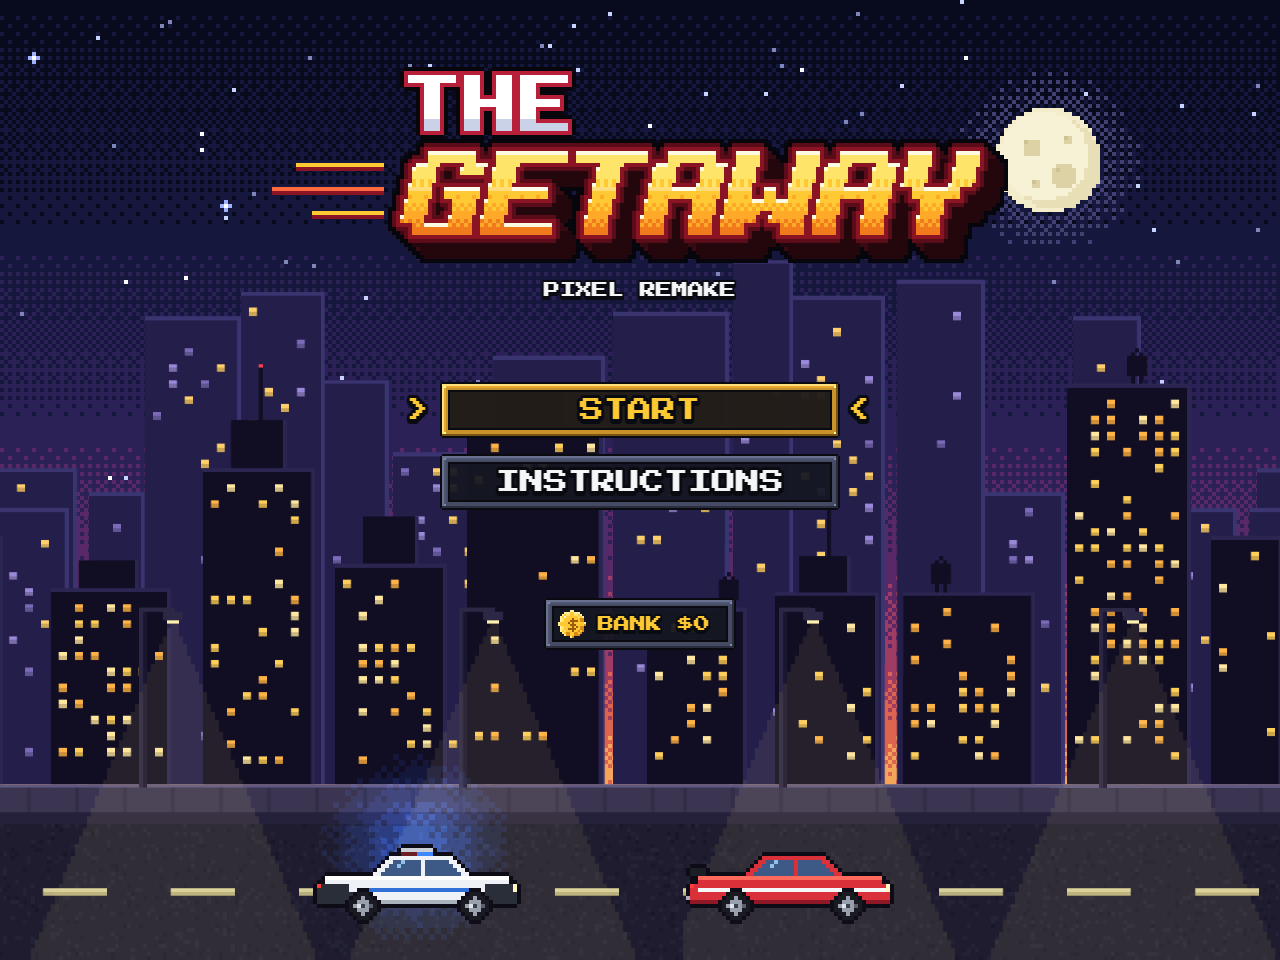
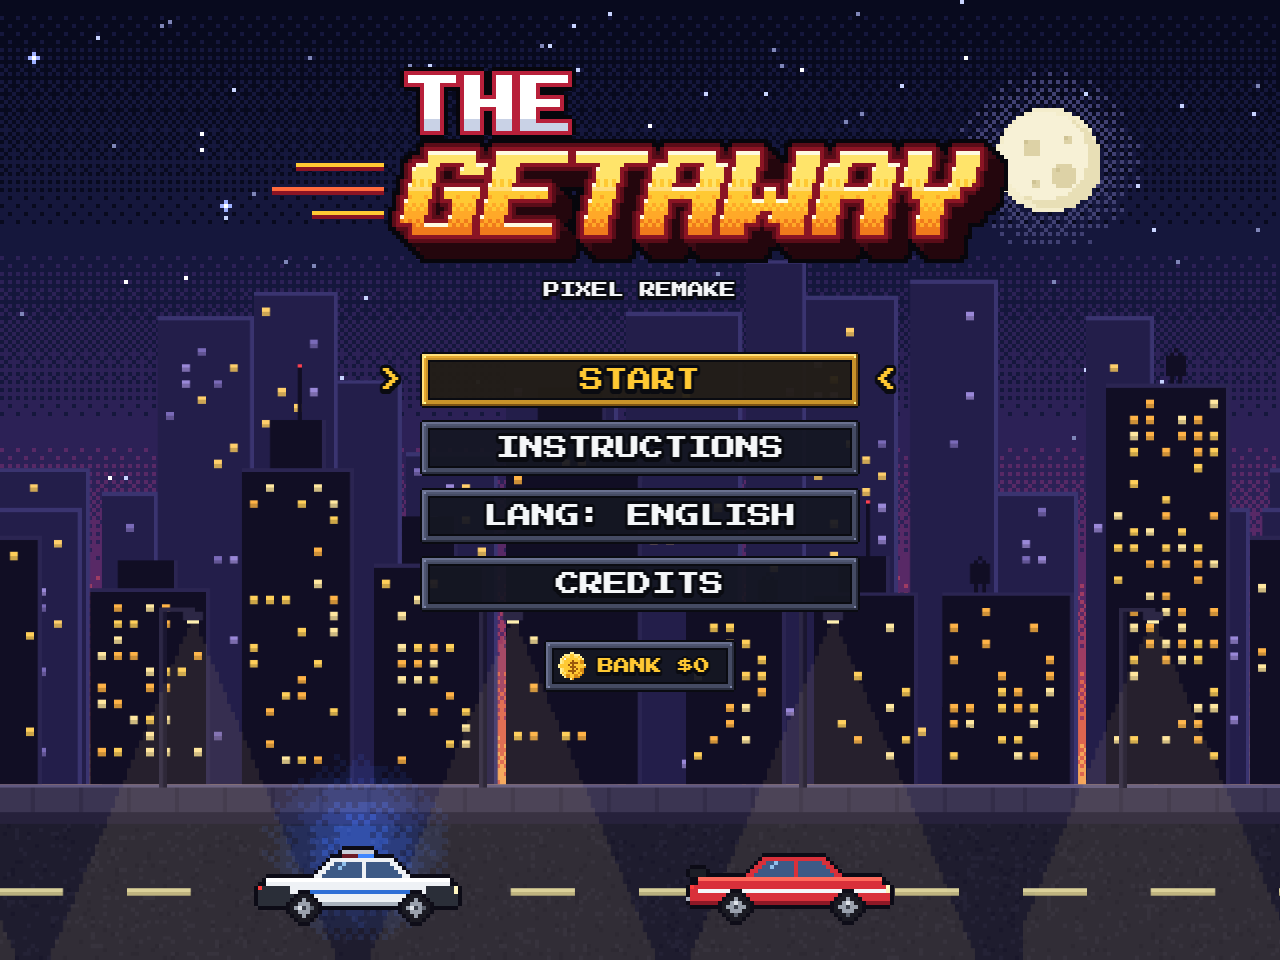
feat: credits page in the main menu, with a link to the GitHub repo (#22)
CREDITS joins the title menu and opens a page that names the author,
engine, languages and source code. VIEW ON GITHUB (or clicking the
address) opens the repository in a new tab.

Press Start 2P squeezes accented capitals into the plain capital's cell,
so they read as lower case. The page draws the bare letter and adds the
acute and caron as pixels above it, which lets the name keep its
diacritics.

Changed region(s): [[0.0, 0.2812, 1.0, 0.9688], [0.5938, 0.2812, 0.625, 0.3125]]

diff --git a/src/scenes/CreditsScene.js b/src/scenes/CreditsScene.js
@@ -1,0 +1,161 @@
+import Phaser from 'phaser';
+import { label, panel, dim, UI_COLORS, INK, createMenu, cityBackdrop } from '../ui/ui';
+import { bindPad } from '../gamepad';
+import { t } from '../i18n';
+
+const REPO_URL = 'https://github.com/Zednicek-Adam/Getaway';
+// Shown on screen in the font's capitals; GitHub paths are case-insensitive
+const REPO_LABEL = 'GITHUB.COM/ZEDNICEK-ADAM/GETAWAY';
+
+const NAME = 'ADAM ZEDNÍČEK';
+
+// Press Start 2P does have Í and Č, but squeezes them into the same 8px cell
+// as the plain capitals, so they read as lower case. accented() draws the
+// bare letter and adds the mark as pixels above it instead. Each mark is a
+// list of [col, row] font pixels; row 0 is the top of a capital, so negative
+// rows sit above it, leaving row -1 as a gap.
+const MARKS = {
+    '́': [[4, -3], [5, -3], [3, -2], [4, -2]], // acute
+    '̌': [[1, -3], [2, -3], [4, -3], [5, -3], [2, -2], [3, -2], [4, -2]], // caron
+};
+
+// Static credits page reached from the main menu. Headings come from i18n.js;
+// names and product names are the same in every language, so they live here.
+export class CreditsScene extends Phaser.Scene {
+    constructor() {
+        super({ key: 'CreditsScene' });
+    }
+
+    create() {
+        const { width } = this.scale;
+        const centre = width / 2;
+
+        cityBackdrop(this);
+        dim(this, 0.55);
+        panel(this, 40, 104, width - 80, 696);
+
+        label(this, centre, 56, t('credits.title'), { size: 40, color: UI_COLORS.gold }).setOrigin(0.5);
+
+        // --- Headliner -------------------------------------------------------
+        this.accented(centre, 136, t('credits.by'), { color: UI_COLORS.dim });
+        this.accented(centre, 186, NAME, { size: 32, color: UI_COLORS.gold });
+
+        // --- The roll --------------------------------------------------------
+        const blocks = this.column(centre, [
+            [t('credits.design'), [NAME]],
+            [t('credits.engine'), ['PHASER 3', 'PHASER.IO']],
+            [t('credits.languages'), ['ENGLISH, ESPAÑOL']],
+            [t('credits.thanks'), [t('credits.thanksWho')]],
+            [t('credits.source'), [REPO_LABEL]],
+        ]);
+        this.linkify(blocks[blocks.length - 1][0]);
+
+        // --- Small print -----------------------------------------------------
+        this.accented(centre, 738, t('credits.disclaimer'), { color: UI_COLORS.dim });
+        this.accented(centre, 770, `© 2026 ${NAME}`, { color: UI_COLORS.faint });
+
+        this.createButtons(centre, 846);
+    }
+
+    // Stacks [heading, lines] blocks down the page, centred on x. Returns each
+    // block's line labels so callers can dress individual lines.
+    column(x, blocks) {
+        let y = 246;
+        return blocks.map(([heading, lines]) => {
+            label(this, x, y, heading, { size: 24, color: UI_COLORS.red }).setOrigin(0.5);
+            const shown = lines.map((line, j) => this.accented(x, y + 36 + j * 24, line, { color: UI_COLORS.white }));
+            y += 36 + (lines.length - 1) * 24 + 58;
+            return shown;
+        });
+    }
+
+    // A label centred on (x, y) whose acute and caron letters are rebuilt
+    // from the bare letter plus a drawn mark (see MARKS). Every other
+    // character, Ñ included, is left to the font.
+    accented(x, y, text, opts) {
+        const size = opts.size || 16;
+        let plain = '';
+        const marks = [];
+        for (const ch of text) {
+            const [base, mark] = ch.normalize('NFD');
+            if (MARKS[mark]) marks.push([plain.length, MARKS[mark]]);
+            plain += MARKS[mark] ? base : ch;
+        }
+
+        const shown = label(this, x, y, plain, { ...opts, size }).setOrigin(0.5);
+        if (!marks.length) return shown;
+
+        // Where Phaser draws each glyph: inside the padding, half a stroke in,
+        // one em per character (the font is monospaced), baseline at the
+        // ascent. A capital is 7 font pixels tall and sits one pixel above the
+        // baseline, so its top is a full em above it.
+        const px = size / 8;
+        const stroke = shown.style.strokeThickness;
+        const left = shown.x - shown.displayWidth / 2 + shown.padding.left + stroke / 2;
+        const top = shown.y - shown.displayHeight / 2 + shown.padding.top + stroke / 2
+            + shown.getTextMetrics().ascent - size;
+
+        // Same three layers as the label: drop shadow, ink outline, fill
+        const ink = Phaser.Display.Color.HexStringToColor(INK).color;
+        const layers = [
+            [ink, stroke / 2, shown.style.shadowOffsetY],
+            [ink, stroke / 2, 0],
+            [Phaser.Display.Color.HexStringToColor(opts.color).color, 0, 0],
+        ];
+        const g = this.add.graphics();
+        for (const [colour, grow, drop] of layers) {
+            g.fillStyle(colour);
+            for (const [i, pixels] of marks) {
+                for (const [col, row] of pixels) {
+                    g.fillRect(left + i * size + col * px - grow, top + row * px - grow + drop,
+                        px + grow * 2, px + grow * 2);
+                }
+            }
+        }
+        // Under the letters, so a mark's shadow never paints over a capital
+        this.children.moveBelow(g, shown);
+        return shown;
+    }
+
+    // Turns a label into a clickable link to the repo
+    linkify(text) {
+        text.setColor(UI_COLORS.cyan).setInteractive({ useHandCursor: true });
+        text.on('pointerover', () => text.setColor(UI_COLORS.goldLight));
+        text.on('pointerout', () => text.setColor(UI_COLORS.cyan));
+        text.on('pointerdown', openRepo);
+    }
+
+    createButtons(x, y) {
+        // Mirrors InstructionsScene: a held ENTER/SPACE repeats, and the
+        // repeat can land on this scene the instant it opens. Date.now(), not
+        // this.time.now — see the note in MenuScene.
+        const armedAt = Date.now();
+        const armed = () => Date.now() - armedAt >= 250;
+        const goBack = () => {
+            if (armed()) this.scene.start('MenuScene');
+        };
+
+        const menu = createMenu(this, {
+            x, y, width: 440, height: 52, spacing: 64,
+            items: [
+                { label: t('credits.github'), action: openRepo },
+                { label: t('help.back'), action: goBack },
+            ],
+        });
+
+        const activate = () => {
+            if (armed()) menu.activate();
+        };
+        this.input.keyboard.on('keydown-ESC', goBack);
+        this.input.keyboard.on('keydown-ENTER', activate);
+        this.input.keyboard.on('keydown-SPACE', activate);
+        bindPad(this, { a: activate, b: goBack, start: activate });
+    }
+}
+
+// A new tab, so the game stays open on the credits page. Browsers
+// only allow this from a click or key press; a gamepad press does not count as
+// one, so from a pad the tab may be blocked. The address is on screen anyway.
+function openRepo() {
+    window.open(REPO_URL, '_blank', 'noopener');
+}

diff --git a/src/i18n.js b/src/i18n.js
@@ -25,6 +25,7 @@ export const STRINGS = {
         'menu.subtitle': 'PIXEL REMAKE',
         'menu.start': 'START',
         'menu.instructions': 'INSTRUCTIONS',
+        'menu.credits': 'CREDITS',
         'menu.language': 'LANG: {name}',
         'menu.bank': 'BANK {amount}',
 
@@ -105,6 +106,17 @@ export const STRINGS = {
         'help.heat': 'HEAT',
         'help.heat1': 'EVERY PICKUP RAISES YOUR WANTED STARS',
         'help.heat2': '1-3 PATROLS   4 SWAT + ROADBLOCKS   5 HELICOPTER',
+
+        'credits.title': 'CREDITS',
+        'credits.by': 'A GAME BY',
+        'credits.design': 'GAME DESIGN',
+        'credits.languages': 'LANGUAGES',
+        'credits.thanks': 'SPECIAL THANKS',
+        'credits.thanksWho': 'YOU, FOR PLAYING',
+        'credits.engine': 'ENGINE',
+        'credits.source': 'SOURCE CODE',
+        'credits.disclaimer': 'NO REAL POLICE CARS WERE HARMED IN THE MAKING OF THIS GAME',
+        'credits.github': 'VIEW ON GITHUB',
     },
 
     es: {
@@ -114,6 +126,7 @@ export const STRINGS = {
         'menu.subtitle': 'REMAKE EN PIXELES',
         'menu.start': 'JUGAR',
         'menu.instructions': 'INSTRUCCIONES',
+        'menu.credits': 'CREDITOS',
         'menu.language': 'IDIOMA: {name}',
         'menu.bank': 'BANCO {amount}',
 
@@ -194,6 +207,17 @@ export const STRINGS = {
         'help.heat': 'NIVEL DE BUSQUEDA',
         'help.heat1': 'CADA OBJETO RECOGIDO SUBE TUS ESTRELLAS',
         'help.heat2': '1-3 PATRULLAS   4 SWAT + BARRICADAS   5 HELICOPTERO',
+
+        'credits.title': 'CREDITOS',
+        'credits.by': 'UN JUEGO DE',
+        'credits.design': 'DISEÑO',
+        'credits.languages': 'IDIOMAS',
+        'credits.thanks': 'AGRADECIMIENTOS',
+        'credits.thanksWho': 'A TI, POR JUGAR',
+        'credits.engine': 'MOTOR',
+        'credits.source': 'CODIGO FUENTE',
+        'credits.disclaimer': 'NINGUN PATRULLERO REAL SUFRIO DAÑOS EN ESTE JUEGO',
+        'credits.github': 'VER EN GITHUB',
     },
 };
 

diff --git a/src/scenes/MenuScene.js b/src/scenes/MenuScene.js
@@ -42,9 +42,9 @@ export class MenuScene extends Phaser.Scene {
         const bankLabel = label(this, 0, 0, t('menu.bank', { amount: money(banked) }), { color: UI_COLORS.gold }).setOrigin(0, 0.5);
         const bankW = Math.ceil((bankLabel.width + 72) / 2) * 2;
         const bankX = width / 2 - bankW / 2;
-        const bankPanel = panel(this, bankX, 598, bankW, 52);
-        const coin = icon(this, bankX + 28, 624, 'coin');
-        bankLabel.setPosition(bankX + 50, 624);
+        const bankPanel = panel(this, bankX, 640, bankW, 52);
+        const coin = icon(this, bankX + 28, 666, 'coin');
+        bankLabel.setPosition(bankX + 50, 666);
         this.menuContainer.add([bankPanel, coin, bankLabel]);
 
         // Track whether transition is already in progress
@@ -79,6 +79,11 @@ export class MenuScene extends Phaser.Scene {
             this.scene.start('InstructionsScene', { returnTo: 'MenuScene' });
         };
 
+        const showCredits = () => {
+            if (this.isTransitioning) return;
+            this.scene.start('CreditsScene');
+        };
+
         const switchLanguage = () => {
             if (this.isTransitioning) return;
             document.documentElement.lang = setLanguage(getBrowserStorage(), nextLanguage());
@@ -87,12 +92,14 @@ export class MenuScene extends Phaser.Scene {
 
         this.menu = createMenu(this, {
             x: width / 2,
-            y: 410,
+            y: 380,
             width: 440,
+            spacing: 68,
             items: [
                 { label: t('menu.start'), action: startGame },
                 { label: t('menu.instructions'), action: showInstructions },
                 { label: t('menu.language', { name: t('lang.name') }), action: switchLanguage },
+                { label: t('menu.credits'), action: showCredits },
             ],
             container: this.menuContainer,
         });

diff --git a/src/main.js b/src/main.js
@@ -5,6 +5,7 @@ import { GameScene } from './scenes/GameScene';
 import { PauseScene } from './scenes/PauseScene';
 import { GarageScene } from './scenes/GarageScene';
 import { InstructionsScene } from './scenes/InstructionsScene';
+import { CreditsScene } from './scenes/CreditsScene';
 import { TILE_SIZE, VIEWPORT_WIDTH, VIEWPORT_HEIGHT } from './constants';
 import { getBrowserStorage } from './storage';
 import { initLanguage, getLanguage } from './i18n';
@@ -32,7 +33,7 @@ const config = {
       debug: false,
     },
   },
-  scene: [BootScene, MenuScene, GameScene, PauseScene, GarageScene, InstructionsScene],
+  scene: [BootScene, MenuScene, GameScene, PauseScene, GarageScene, InstructionsScene, CreditsScene],
 };
 
 // Every scene reads the language through t(), so it has to be settled first

diff --git a/README.md b/README.md
@@ -12,6 +12,7 @@ Built with [Phaser 3](https://phaser.io/) and [Vite](https://vite.dev/).
 | --- | --- |
 | ![Title screen](docs/screenshots/title.png) | ![A five-star chase](docs/screenshots/chase.png) |
 | ![The garage](docs/screenshots/garage.png) | ![How to play](docs/screenshots/instructions.png) |
+| ![Credits](docs/screenshots/credits.png) | |
 
 ## The loop
 
@@ -62,7 +63,8 @@ buttons once a controller is connected.
 Touch devices can swipe to steer. An INSTRUCTIONS page shows this same summary
 in-game, reachable from both the main menu and the pause menu; opening it from
 pause leaves the run paused and returns you there. The pause menu can also drop
-you back to the main menu.
+you back to the main menu. CREDITS on the title screen lists who made the game,
+and links to this repository (opened in a new tab).
 
 The car drives itself forward; you only choose turns. Because turns are buffered,
 you can line up a sequence through an intersection before you reach it. Pressing
@@ -196,7 +198,7 @@ src/
   managers/         Input, Map, Police, UI
   objects/          Car, PoliceCar, SwatVan, Helicopter, DiamondCar,
                     Collectible, Bomb, Rocket, Roadblock
-  scenes/           Boot, Menu, Game, Pause, Garage, Instructions
+  scenes/           Boot, Menu, Game, Pause, Garage, Instructions, Credits
   ui/               shared look: pixel text, 9-slice panels, button menus
   generated/        art.json manifest written by tools/generate_art.py
 test/               vitest suites for the Phaser-free modules
